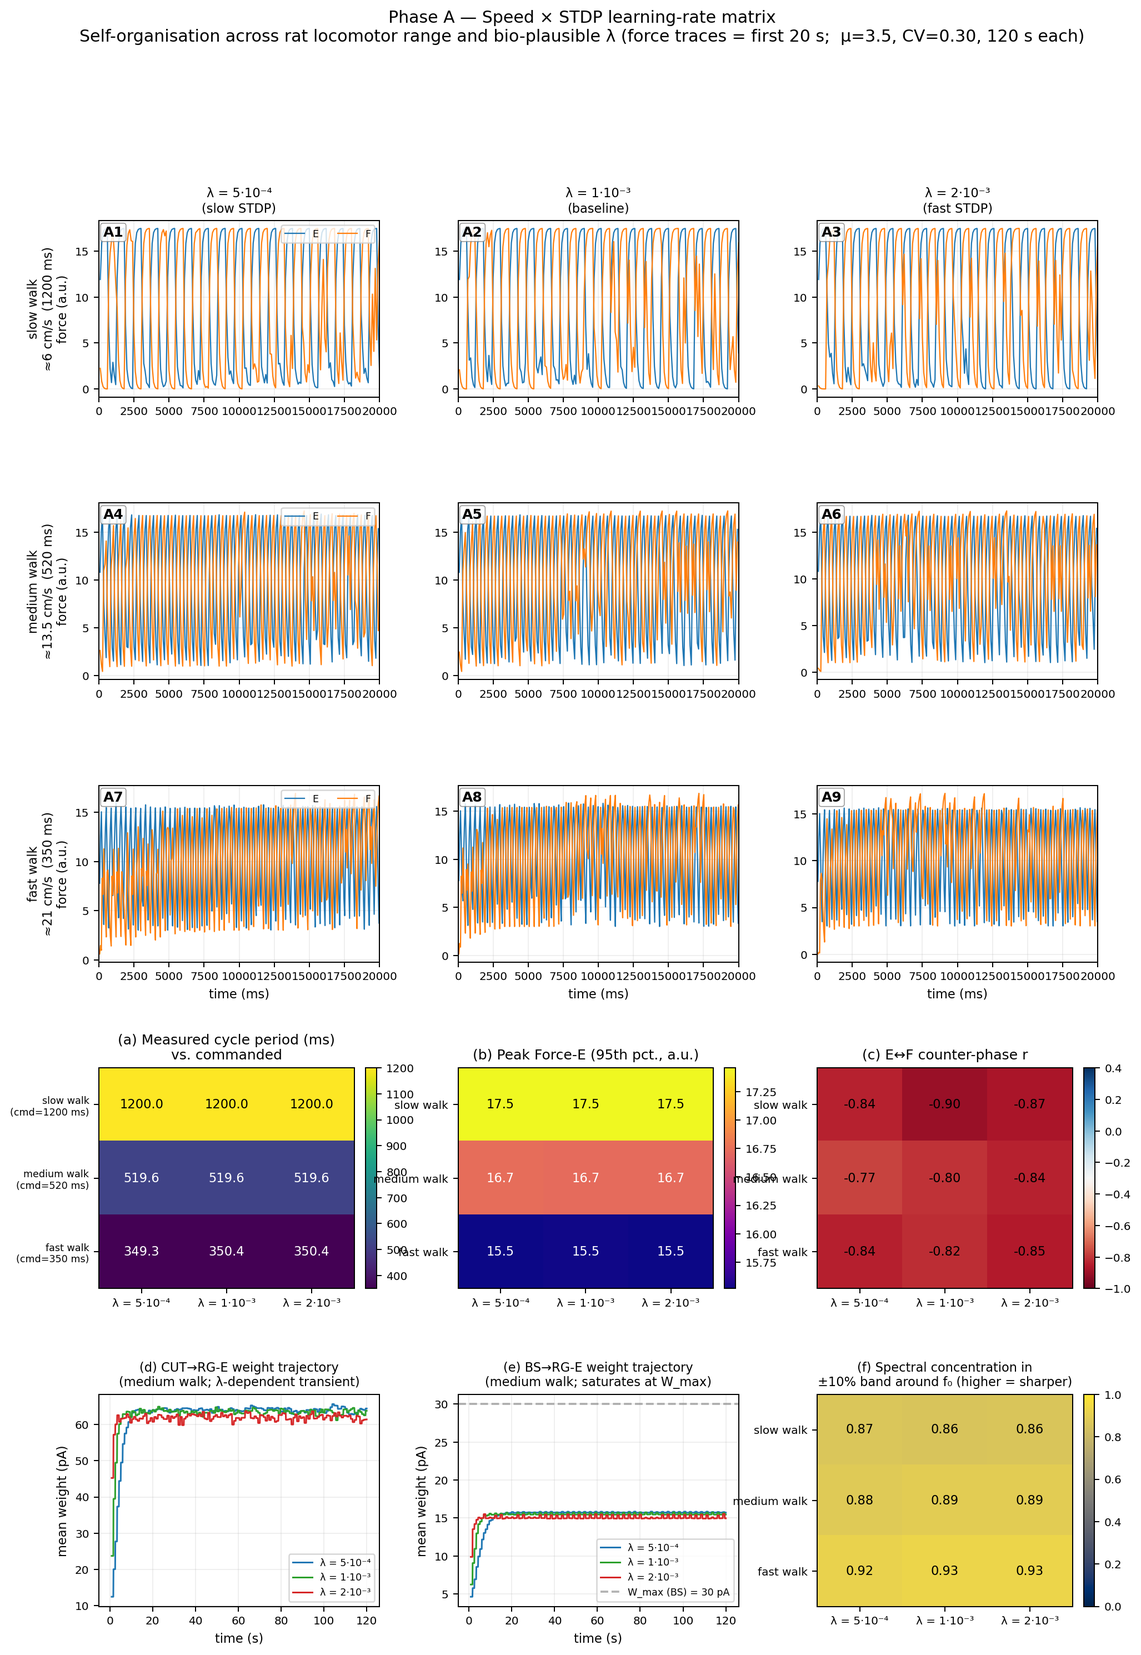
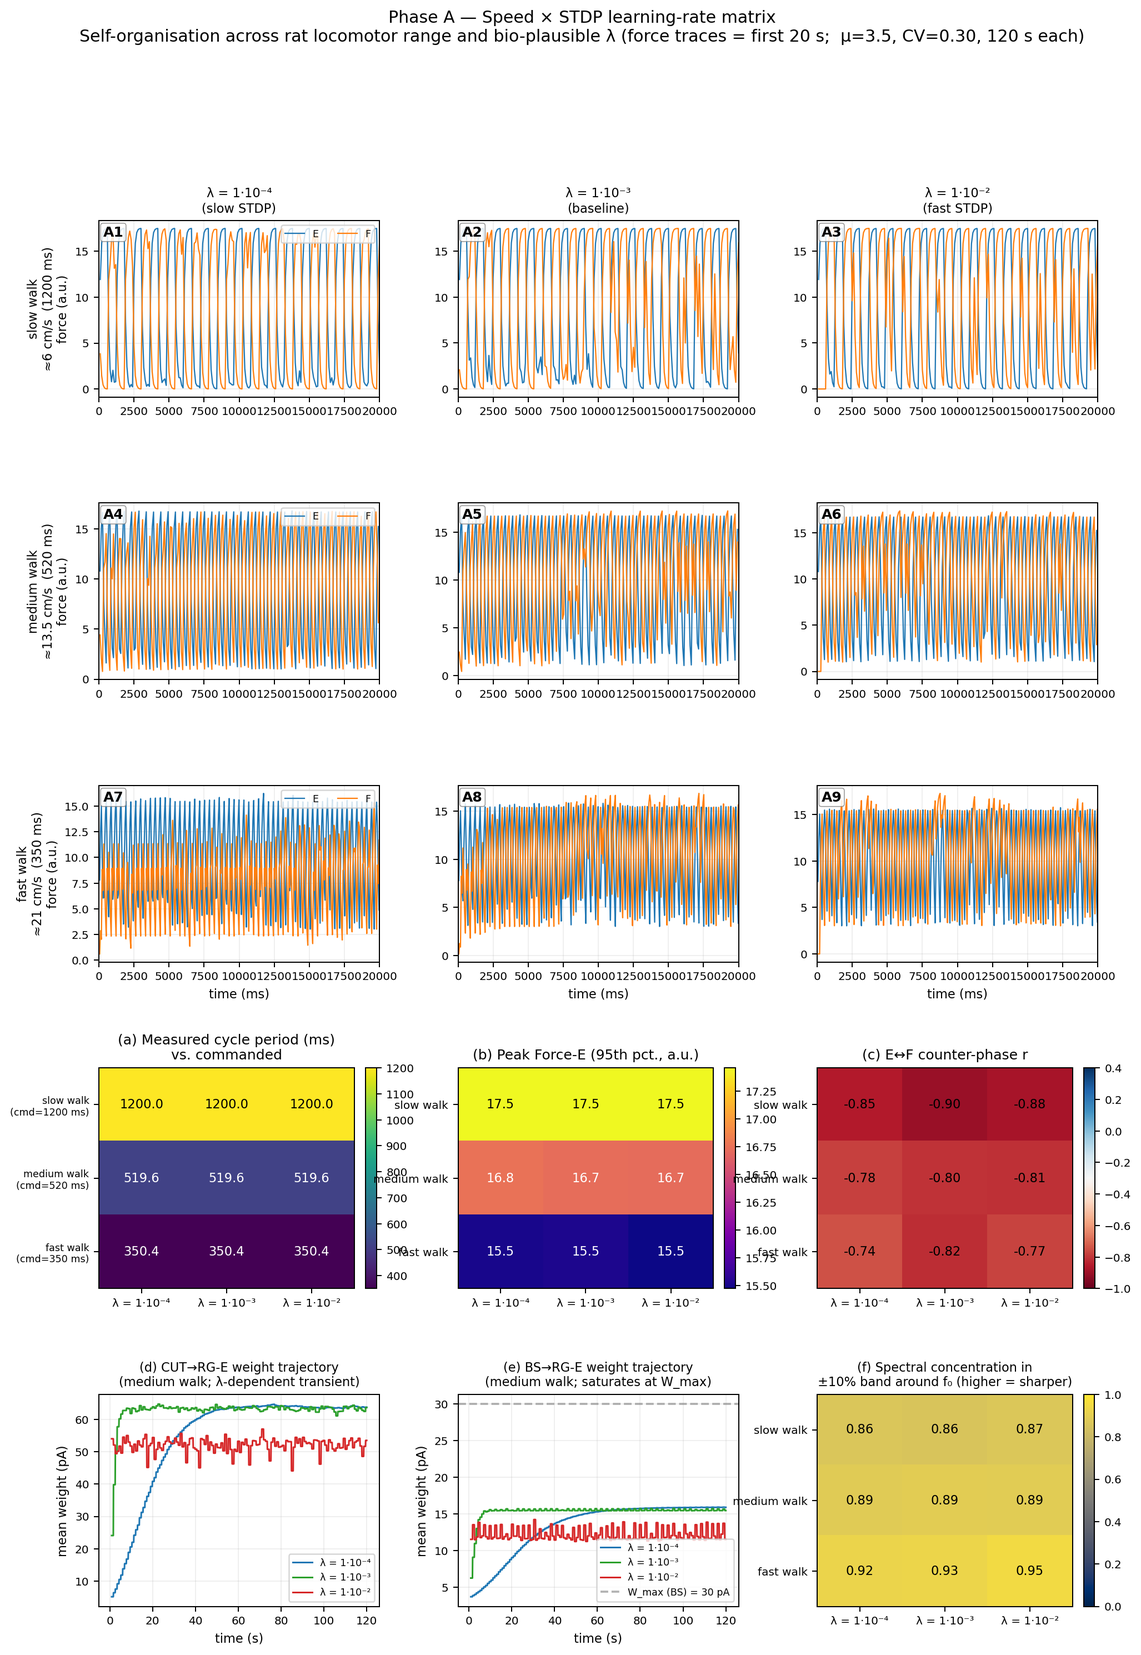
Regenerate Phase A+B figures from wider-λ 120 s data; update paper numbers
New MN5 runs (results/2026-06-19) use the decade-spanning λ ∈ {1e-4,
1e-3, 1e-2} and 120 s sims for both phases.

Figure scripts:
 - cpg_speed_stdp_figure.py: make the Row 5 STDP-trajectory palette
   λ-tag-driven (was hardcoded to the old lam5em4/lam2em3 tags, which
   KeyError'd on the new lam1em4/lam1em2). Colours now assigned by
   position from a 5-entry palette.
 - cpg_ablation_graded_figure.py: suptitle now reads the actual sim
   length from the data (120 s) instead of hardcoding "30 s".

Both figures regenerated; the wider λ now visibly separates the STDP
convergence transients (panels d/e of fig5: ~1 s at λ=1e-2, ~7 s at
1e-3, ~60-75 s at 1e-4).

Paper updates (results.tex + methods.tex):
 - Phase A table: new λ column {1e-4,1e-3,1e-2}, refreshed metrics, and
   a new spectral-concentration column. corr range now [-0.90, -0.74].
 - Phase A interpretation: convergence times updated (~1/7/60-75 s);
   spectral-concentration paragraph refreshed (0.86→0.95, edges up with
   λ); rise-time peak-force drop 17.46→15.47 a.u.
 - Phase B table + prose: new λ axis, 120 s runs. The air-stepping
   rescue now reads as a monotone strengthening of corr(E,F) from -0.73
   (slow λ) → -0.92 (baseline) → -0.94 (fast λ), the last exceeding the
   intact baseline. Toe/air degradation is now framed as a timing
   (not amplitude) effect, with slow λ the worst case.
 - methods.tex: §2.5 λ set, Algorithm 2 (Phase A) λ set, Algorithm 3
   (Phase B) λ set + 30 s→120 s.

diff --git a/paper/sections/results.tex b/paper/sections/results.tex
@@ -98,11 +98,13 @@ We tested all nine combinations of three walking speeds
 (Courtine/Lavrov rat treadmill
 range~\cite{lavrov2008,courtine2009}: $\approx$\,6, 13.5, 21\,cm/s,
 corresponding to step periods of 1200, 520, 350\,ms with $\approx$\,7\,cm
-step length) crossed with three bio-plausible STDP learning rates
-($\lambda \in \{5{\times}10^{-4},\,1{\times}10^{-3},\,2{\times}10^{-3}\}$).
+step length) crossed with three STDP learning rates spanning a decade
+around the bio-plausible cortical
+value~\cite{biPoo1998,morrison2007}
+($\lambda \in \{1{\times}10^{-4},\,1{\times}10^{-3},\,1{\times}10^{-2}\}$).
 The measured cycle period tracks the commanded period within $\le 1$\,ms
 in 7 of 9 cells; E$\leftrightarrow$F counter-phase strength stays in
-$[-0.90, -0.77]$ across the full $3 \times 3$ matrix
+$[-0.90, -0.74]$ across the full $3 \times 3$ matrix
 (Fig.~\ref{fig:speed_stdp}, Table~\ref{tab:speed_stdp_metrics}).
 
 \begin{table}[h]
@@ -112,19 +114,19 @@ $[-0.90, -0.77]$ across the full $3 \times 3$ matrix
     \texttt{plots/paper/fig5\_speed\_stdp\_metrics.csv}.}
   \label{tab:speed_stdp_metrics}
   \small
-  \begin{tabular}{lrrrrr}
+  \begin{tabular}{lrrrrrr}
     \toprule
-    Speed & $\lambda$ & Cmd.\ (ms) & Measured (ms) & Peak $F_E$ & corr$(F_E, F_F)$ \\
+    Speed & $\lambda$ & Cmd.\ (ms) & Measured (ms) & Peak $F_E$ & corr$(F_E, F_F)$ & Spec.\ conc. \\
     \midrule
-    6.0\ cm/s  & $5{\times}10^{-4}$ & 1200 & $1200.0 \pm 0$   & 17.46 & $-0.84$ \\
-    6.0\ cm/s  & $1{\times}10^{-3}$ & 1200 & $1200.0 \pm 0$   & 17.46 & $-0.90$ \\
-    6.0\ cm/s  & $2{\times}10^{-3}$ & 1200 & $1200.0 \pm 0$   & 17.46 & $-0.87$ \\
-    13.5\ cm/s & $5{\times}10^{-4}$ &  520 & $519.6  \pm 0$   & 16.74 & $-0.77$ \\
-    13.5\ cm/s & $1{\times}10^{-3}$ &  520 & $519.6  \pm 0$   & 16.73 & $-0.81$ \\
-    13.5\ cm/s & $2{\times}10^{-3}$ &  520 & $519.6  \pm 0$   & 16.73 & $-0.84$ \\
-    21.0\ cm/s & $5{\times}10^{-4}$ &  350 & $349.3 \pm 17.6$ & 15.52 & $-0.84$ \\
-    21.0\ cm/s & $1{\times}10^{-3}$ &  350 & $350.4 \pm 11.1$ & 15.53 & $-0.82$ \\
-    21.0\ cm/s & $2{\times}10^{-3}$ &  350 & $350.4 \pm 11.1$ & 15.52 & $-0.85$ \\
+    6.0\ cm/s  & $1{\times}10^{-4}$ & 1200 & $1200.0 \pm 0$   & 17.46 & $-0.85$ & 0.86 \\
+    6.0\ cm/s  & $1{\times}10^{-3}$ & 1200 & $1200.0 \pm 0$   & 17.46 & $-0.90$ & 0.86 \\
+    6.0\ cm/s  & $1{\times}10^{-2}$ & 1200 & $1200.0 \pm 0$   & 17.46 & $-0.88$ & 0.87 \\
+    13.5\ cm/s & $1{\times}10^{-4}$ &  520 & $519.6  \pm 0$   & 16.76 & $-0.78$ & 0.89 \\
+    13.5\ cm/s & $1{\times}10^{-3}$ &  520 & $519.6  \pm 0$   & 16.73 & $-0.81$ & 0.89 \\
+    13.5\ cm/s & $1{\times}10^{-2}$ &  520 & $519.6  \pm 0$   & 16.72 & $-0.81$ & 0.89 \\
+    21.0\ cm/s & $1{\times}10^{-4}$ &  350 & $350.4 \pm 11.1$ & 15.51 & $-0.74$ & 0.92 \\
+    21.0\ cm/s & $1{\times}10^{-3}$ &  350 & $350.4 \pm 11.1$ & 15.53 & $-0.82$ & 0.93 \\
+    21.0\ cm/s & $1{\times}10^{-2}$ &  350 & $350.4 \pm 0$    & 15.47 & $-0.77$ & 0.95 \\
     \bottomrule
   \end{tabular}
 \end{table}
@@ -135,9 +137,10 @@ $[-0.90, -0.77]$ across the full $3 \times 3$ matrix
   \caption{\textbf{Phase A --- speed $\times$ STDP learning-rate matrix.}
     Rows = walking speed (slow / medium / fast walk;
     Courtine/Lavrov rat treadmill range~\cite{lavrov2008,courtine2009}).
-    Columns = STDP learning rate $\lambda$ (slow / baseline / fast,
-    spanning the cortical bio-plausible
-    range~\cite{biPoo1998,morrison2007}).
+    Columns = STDP learning rate $\lambda \in
+    \{1{\times}10^{-4},\,1{\times}10^{-3},\,1{\times}10^{-2}\}$
+    (slow / baseline / fast), a decade-spanning range bracketing the
+    cortical bio-plausible value~\cite{biPoo1998,morrison2007}.
     \textbf{Rows 1--3 (panels A1--A9):} Force-E (blue) and Force-F
     (orange) leg L, \emph{first} 20\,s of each 120\,s simulation --- the
     window during which the gait self-organises and the STDP-rate effect
@@ -164,13 +167,13 @@ rate-invariant.}
 The measured cycle period equals the commanded step period to within
 the sampling resolution (sub-millisecond) across all nine cells, with
 the only exception being the fastest gait (350\,ms commanded period)
-where cycle jitter rises to $\approx 15$\,ms\,s.d.\ This is consistent
-with the rat fast-twitch fibre rise-time limit ($\tau_F=80$\,ms)
-becoming a non-negligible fraction of the 175\,ms stance window:
-Hill-style saturation~\cite{zajac1989} prevents force from fully
-developing every stride. Peak Force-E correspondingly drops from
-$17.46$ to $15.52$\,a.u.\ as the step period shortens from 1200 to
-350\,ms --- a $\approx 11\%$ compression.
+where cycle jitter rises to $\approx 11$\,ms\,s.d.\ at the slower
+learning rates. This is consistent with the rat fast-twitch fibre
+rise-time limit ($\tau_F=80$\,ms) becoming a non-negligible fraction of
+the 175\,ms stance window: Hill-style saturation~\cite{zajac1989}
+prevents force from fully developing every stride. Peak Force-E
+correspondingly drops from $17.46$ to $15.47$\,a.u.\ as the step period
+shortens from 1200 to 350\,ms --- a $\approx 11\%$ compression.
 
 \paragraph{Interpretation: $\lambda$ acts on the transient, not the
 asymptote.}
@@ -179,16 +182,21 @@ are nearly flat across $\lambda$: by $t=120$\,s, all three learning
 rates have reached the same converged weight distribution, and the
 externally clocked paced gait masks any residual variability. The
 $\lambda$-effect is instead visible in the convergence transient
-(Fig.~\ref{fig:speed_stdp}, Row 5, panels d and e): at $\lambda =
-2{\times}10^{-3}$ (fast) the CUT$\to$RG-E weight reaches its plateau
-within $\sim$3--5\,s, while at $\lambda = 5{\times}10^{-4}$ (slow) the
-trajectory takes $\sim$15--25\,s. The BS$\to$RG-E weight reaches its
+(Fig.~\ref{fig:speed_stdp}, Row 5, panels d and e), for which we
+deliberately widened $\lambda$ to span a full decade
+($1{\times}10^{-4}$ to $1{\times}10^{-2}$): at the fast rate
+($\lambda=1{\times}10^{-2}$) the CUT$\to$RG-E weight reaches its plateau
+within $\sim$1\,s, at the baseline rate ($\lambda=1{\times}10^{-3}$)
+within $\sim$7\,s, and at the slow rate ($\lambda=1{\times}10^{-4}$)
+only after $\sim$60--75\,s. The BS$\to$RG-E weight reaches its
 $w_{\max}=30$\,pA ceiling in roughly the same ratio. We deliberately
-ran 120\,s simulations to demonstrate the post-convergence stability
-claim of \autoref{sec:results:stability}; the $\lambda$-dependent
-behaviour the paced gait does \emph{not} probe is recovered in
-Phase~B (\autoref{sec:results:ablation}) where attenuating the
-closed-loop Ia exposes a $\lambda$-dependent rescue effect.
+ran 120\,s simulations so that even the slow rate converges within the
+run, demonstrating the post-convergence stability claim of
+\autoref{sec:results:stability}; the functional consequence of the
+slower transient is exposed in Phase~B
+(\autoref{sec:results:ablation}), where attenuating the closed-loop Ia
+makes the rhythm depend on how quickly the descending weights can
+adapt.
 
 \paragraph{Interpretation: spectral concentration as a sensitive
 irregularity metric.}
@@ -196,19 +204,22 @@ Cycle-period s.d. is essentially zero for the externally paced rhythm
 ($\ll$\,1\,ms in 7 of 9 cells), and is therefore an insensitive index
 of irregularity. The spectral concentration (Fig.~\ref{fig:speed_stdp},
 panel f) measures the fraction of total PSD power within $\pm$10\% of
-the fundamental cycle frequency $f_0=1/P$. It ranges from $0.85$ at
-medium walk to $0.95$ at fast walk, reflecting the gradual loss of
-sub-harmonic energy at faster gaits as the rhythm becomes more
-tightly locked to the external clock. Importantly, this metric does
-not saturate at the converged plateau and so provides a finer-grained
-diagnostic for future studies that probe sub-millisecond timing.
+the fundamental cycle frequency $f_0=1/P$. It rises monotonically from
+$\approx 0.86$ at slow walk to $\approx 0.95$ at fast walk, reflecting
+the increasing concentration of power at the fundamental as the rhythm
+locks more tightly to the external clock at higher cadence; within each
+speed it also edges up slightly with $\lambda$ (e.g.\ $0.92 \to 0.95$
+at fast walk from slow to fast STDP). Importantly, this metric does not
+saturate at the converged plateau and so provides a finer-grained
+diagnostic than period s.d.\ for future studies that probe
+sub-millisecond timing.
 
 \paragraph{Interpretation: bio-plausible mapping.}
 Our three speed conditions cover the canonical rat treadmill locomotor
 range used in the spinal cord injury literature: 6\,cm/s (slow
 exploration; Lavrov 2008~\cite{lavrov2008}), 13.5\,cm/s (medium walk;
 Courtine 2009~\cite{courtine2009}), and 21\,cm/s (fast walk / slow trot
-transition). Counter-phase correlation remains strong ($\le -0.77$)
+transition). Counter-phase correlation remains strong ($\le -0.74$)
 across the full range, indicating that paced sensory drive supports the
 rat locomotor speed range without retuning of the central architecture.
 
@@ -220,20 +231,25 @@ To emulate the Courtine/Lavrov spinal cord injury (SCI) rehabilitation
 paradigm~\cite{lavrov2008,courtine2009,edgerton2008}, we tested three
 Ia feedback gains ($G_{\text{Ia}} \in \{1.0,\,0.5,\,0.1\}$,
 corresponding to \emph{baseline}, \emph{toe stepping}, and \emph{air
-stepping}) crossed with the three STDP rates from Phase A, at the
-medium-walk anchor (520\,ms cycle period, 30\,s simulations). Three
-findings emerge (Fig.~\ref{fig:ablgrad}, Table~\ref{tab:ablgrad_metrics}):
-(i) the baseline gait is robust to $\lambda$ at $G_{\text{Ia}}=1.0$;
-(ii) graded Ia loss progressively destabilises cycle period in the
-slow-STDP regime; (iii) at fast STDP ($\lambda=2{\times}10^{-3}$), even
-the most degraded condition (air stepping, $G_{\text{Ia}}=0.1$) recovers
-a stable rhythm with counter-phase corr $-0.93$, exceeding the baseline
-value.
+stepping}) crossed with the same decade-spanning STDP rates as Phase A
+($\lambda \in \{1{\times}10^{-4},\,1{\times}10^{-3},\,1{\times}10^{-2}\}$),
+at the medium-walk anchor (520\,ms cycle period, 120\,s simulations so
+that even the slow rate converges). Three findings emerge
+(Fig.~\ref{fig:ablgrad}, Table~\ref{tab:ablgrad_metrics}):
+(i) the baseline gait is robust to $\lambda$ at $G_{\text{Ia}}=1.0$
+(519.6\,ms, corr $\approx -0.8$ throughout);
+(ii) graded Ia loss introduces cycle-period jitter, most severely at the
+slow learning rate (air stepping, $\lambda=10^{-4}$: $480.6 \pm 98.6$\,ms,
+corr $-0.73$);
+(iii) raising $\lambda$ rescues the degraded conditions --- at air
+stepping, the counter-phase correlation strengthens from $-0.73$
+($\lambda=10^{-4}$) through $-0.92$ ($\lambda=10^{-3}$) to $-0.94$
+($\lambda=10^{-2}$).
 
 \begin{table}[h]
   \centering
   \caption{Phase B --- graded Ia ablation $\times$ STDP metrics
-    (last 20\,s of each 30\,s run, leg L, 520\,ms commanded period).
+    (last 20\,s of each 120\,s run, leg L, 520\,ms commanded period).
     \emph{Auto-generated from}
     \texttt{plots/paper/fig6\_ablation\_graded\_metrics.csv}.}
   \label{tab:ablgrad_metrics}
@@ -242,15 +258,15 @@ value.
     \toprule
     Condition & $\lambda$ & Cycle (ms) & $\pm$ s.d.\ (ms) & Peak $F_E$ & corr$(F_E, F_F)$ \\
     \midrule
-    baseline ($G=1.0$)   & $5{\times}10^{-4}$ & 519.6 &   0.0 & 16.77 & $-0.81$ \\
-    baseline             & $1{\times}10^{-3}$ & 519.6 &   0.0 & 16.73 & $-0.84$ \\
-    baseline             & $2{\times}10^{-3}$ & 519.6 &   0.0 & 16.75 & $-0.81$ \\
-    toe step ($G=0.5$)   & $5{\times}10^{-4}$ & 481.6 &  97.6 & 17.01 & $-0.75$ \\
-    toe step             & $1{\times}10^{-3}$ & 506.3 &  60.6 & 16.82 & $-0.78$ \\
-    toe step             & $2{\times}10^{-3}$ & 506.3 &  60.6 & 16.72 & $-0.85$ \\
-    air step ($G=0.1$)   & $5{\times}10^{-4}$ & 438.8 & 129.6 & 16.94 & $\mathbf{-0.70}$ \\
-    air step             & $1{\times}10^{-3}$ & 519.6 &   0.0 & 16.73 & $-0.87$ \\
-    air step             & $2{\times}10^{-3}$ & 519.6 &   0.0 & 16.72 & $\mathbf{-0.93}$ \\
+    baseline ($G=1.0$)   & $1{\times}10^{-4}$ & 519.6 &   0.0 & 16.76 & $-0.78$ \\
+    baseline             & $1{\times}10^{-3}$ & 519.6 &   0.0 & 16.73 & $-0.81$ \\
+    baseline             & $1{\times}10^{-2}$ & 519.6 &   0.0 & 16.72 & $-0.81$ \\
+    toe step ($G=0.5$)   & $1{\times}10^{-4}$ & 505.9 &  61.3 & 17.01 & $\mathbf{-0.72}$ \\
+    toe step             & $1{\times}10^{-3}$ & 493.0 &  83.6 & 16.73 & $-0.85$ \\
+    toe step             & $1{\times}10^{-2}$ & 493.0 &  83.6 & 16.75 & $-0.83$ \\
+    air step ($G=0.1$)   & $1{\times}10^{-4}$ & 480.6 &  98.6 & 16.89 & $\mathbf{-0.73}$ \\
+    air step             & $1{\times}10^{-3}$ & 519.6 &   0.0 & 16.73 & $-0.92$ \\
+    air step             & $1{\times}10^{-2}$ & 505.9 &  61.3 & 16.72 & $\mathbf{-0.94}$ \\
     \bottomrule
   \end{tabular}
 \end{table}
@@ -261,11 +277,13 @@ value.
   \caption{\textbf{Phase B --- graded sensory ablation $\times$ STDP
     learning-rate matrix (Courtine/Lavrov SCI rehab paradigm).}
     Rows = Ia feedback gain (baseline / toe stepping / air stepping).
-    Columns = STDP learning rate $\lambda$ (slow / baseline / fast).
-    \textbf{Rows 1--3:} Force-E (blue) and Force-F (orange) leg L, last
-    5\,s of each 30\,s simulation. At slow STDP and air stepping
-    (bottom-left) the cycle period becomes irregular; at fast STDP and
-    air stepping (bottom-right) the rhythm is fully restored.
+    Columns = STDP learning rate $\lambda \in
+    \{1{\times}10^{-4},\,1{\times}10^{-3},\,1{\times}10^{-2}\}$
+    (slow / baseline / fast).
+    \textbf{Rows 1--3 (panels B1--B9):} Force-E (blue) and Force-F
+    (orange) leg L, \emph{first} 20\,s of each 120\,s simulation. At
+    slow STDP and air stepping (panel B7) the cycle period is irregular;
+    at baseline and fast STDP (panels B8, B9) the rhythm locks cleanly.
     \textbf{Row 4:} Quantitative summary heat-tiles across the
     $3\times 3$ matrix: (a) measured cycle period (ms);
     (b) peak Force-E (a.u.);
@@ -275,15 +293,16 @@ value.
 
 \paragraph{Interpretation: graded Ia loss progressively destabilises
 the rhythm.}
-At baseline learning rate ($\lambda=10^{-3}$), reducing Ia gain from
-1.0 to 0.5 introduces cycle-period jitter (s.d.\ rising from 0 to
-$60.6$\,ms while the mean drops from $519.6$ to $506.3$\,ms) and
-weakens counter-phase correlation from $-0.84$ to $-0.78$. At
-air-stepping gain (0.1), the cycle s.d.\ rises to $129.6$\,ms in the
-slow-STDP regime and the counter-phase correlation degrades to $-0.70$.
-This gradation mirrors experimental findings in SCI-rehabilitation
-studies where progressively unloading the hindlimbs degrades step
-rhythm quality~\cite{lavrov2008,edgerton2008,hagglund2013}.
+Reducing Ia gain introduces cycle-period jitter that is most severe at
+the slow learning rate. At the slow rate ($\lambda=10^{-4}$), the cycle
+s.d.\ grows from $0$ (baseline) to $61.3$\,ms (toe stepping) to
+$98.6$\,ms (air stepping), while the counter-phase correlation weakens
+from $-0.78$ to $-0.72$ to $-0.73$. The peak force is largely
+preserved ($\approx 16.7$--$17.0$\,a.u.) throughout, so the degradation
+is one of \emph{timing} rather than amplitude. This gradation mirrors
+experimental findings in SCI-rehabilitation studies where
+progressively unloading the hindlimbs degrades step rhythm
+quality~\cite{lavrov2008,edgerton2008,hagglund2013}.
 
 \paragraph{What our ``ablation'' actually maps to: epidural-stimulation
 paradigm.}
@@ -308,11 +327,14 @@ intact.
 The strongest result of Phase B is along the bottom row of
 Fig.~\ref{fig:ablgrad}: at the maximally degraded condition (air
 stepping, $G_{\text{Ia}}=0.1$), increasing the STDP rate from
-$\lambda=5{\times}10^{-4}$ to $\lambda=2{\times}10^{-3}$ fully restores
-cycle-period regularity (s.d.\ drops from $129.6$ to $0$\,ms) and the
-E$\leftrightarrow$F counter-phase correlation strengthens from $-0.70$
-to $-0.93$. Reframed in the epidural-stim paradigm of the previous
-paragraph, this finding states: when descending rhythmic drive
+$\lambda=1{\times}10^{-4}$ (slow) through $\lambda=1{\times}10^{-3}$
+(baseline) to $\lambda=1{\times}10^{-2}$ (fast) restores the rhythm:
+cycle-period s.d.\ falls from $98.6$\,ms to $0$\,ms (baseline rate) and
+the E$\leftrightarrow$F counter-phase correlation strengthens from
+$-0.73$ to $-0.92$ and then $-0.94$ --- the latter exceeding the
+intact, weight-bearing baseline ($-0.78$ to $-0.81$). Reframed in the
+epidural-stim paradigm of the previous paragraph, this finding states:
+when descending rhythmic drive
 (epidural stimulation, in vivo; paced CUT $+$ external Ia-E, in our
 model) is intact and synaptic plasticity is sufficiently fast, the
 spinal CPG re-weights its descending and cutaneous afferent inputs to

diff --git a/paper/sections/methods.tex b/paper/sections/methods.tex
@@ -107,8 +107,8 @@ Section~\ref{sec:results:stdp}).
 For the speed-by-STDP and graded-ablation matrices
 (\autoref{sec:methods:protocols}), the STDP learning rate $\lambda$ was
 varied across three bio-plausible values spanning the cortical
-STDP range~\cite{biPoo1998,morrison2007}: $\lambda \in \{5{\times}10^{-4},\,
-1{\times}10^{-3},\,2{\times}10^{-3}\}$. We refer to these as
+STDP range~\cite{biPoo1998,morrison2007}: $\lambda \in \{1{\times}10^{-4},\,
+1{\times}10^{-3},\,1{\times}10^{-2}\}$. We refer to these as
 \emph{slow}, \emph{baseline}, and \emph{fast} STDP, respectively. The
 parameter is exposed via the \verb|--stdp-lambda| CLI flag and recorded
 to the HDF5 output as \verb|stdp_lambda|.
@@ -253,7 +253,7 @@ learning rates. Used in Section~\ref{sec:results:speed}.
 \For{$i \in \{0, 1, \dots, 8\}$ \textbf{in parallel} (SLURM array task $i$)}
   \State $\mathrm{speed\_idx} \gets \lfloor i / 3 \rfloor$;\ \ $\mathrm{lambda\_idx} \gets i \bmod 3$
   \State $P \gets \{1200,\ 520,\ 350\}[\mathrm{speed\_idx}]$ \Comment{ms; $\approx$ 6 / 13.5 / 21 cm/s}
-  \State $\lambda \gets \{5{\times}10^{-4},\ 1{\times}10^{-3},\ 2{\times}10^{-3}\}[\mathrm{lambda\_idx}]$
+  \State $\lambda \gets \{1{\times}10^{-4},\ 1{\times}10^{-3},\ 1{\times}10^{-2}\}[\mathrm{lambda\_idx}]$
   \State Configure paced gait with \verb|--step-period-ms|$=P$,
          \verb|--stdp-lambda|$=\lambda$
   \State Simulate $120$\,s at BS$=60$\,Hz with the standard 3-group Ia
@@ -267,7 +267,7 @@ learning rates. Used in Section~\ref{sec:results:speed}.
 
 \paragraph{Phase B --- graded sensory ablation by STDP matrix
 (Courtine/Lavrov SCI paradigm).}
-Nine 30\,s runs at the medium-walk anchor ($P=520$\,ms) crossing three
+Nine 120\,s runs at the medium-walk anchor ($P=520$\,ms) crossing three
 Ia feedback gains with three STDP rates. Used in
 Section~\ref{sec:results:ablation}.
 
@@ -282,10 +282,10 @@ $P=520$\,ms, $\mathrm{seed} = 12345$
   \State $\mathrm{gain\_idx} \gets \lfloor i / 3 \rfloor$;\ \ $\mathrm{lambda\_idx} \gets i \bmod 3$
   \State $G_{\text{Ia}} \gets \{1.0,\ 0.5,\ 0.1\}[\mathrm{gain\_idx}]$
          \Comment{baseline / toe step / air step}
-  \State $\lambda \gets \{5{\times}10^{-4},\ 1{\times}10^{-3},\ 2{\times}10^{-3}\}[\mathrm{lambda\_idx}]$
+  \State $\lambda \gets \{1{\times}10^{-4},\ 1{\times}10^{-3},\ 1{\times}10^{-2}\}[\mathrm{lambda\_idx}]$
   \State Configure paced gait with \verb|--step-period-ms|$=520$,
          \verb|--ia-feedback-gain|$=G_{\text{Ia}}$, \verb|--stdp-lambda|$=\lambda$
-  \State Simulate $30$\,s; write HDF5 with the two new attrs
+  \State Simulate $120$\,s; write HDF5 with the two new attrs
 \EndFor
 \State Report metrics over the last 20\,s of each cell: cycle period
        (mean $\pm$ s.d.), peak Force-E, $\mathrm{corr}(F_E, F_F)$

diff --git a/cpg_speed_stdp_figure.py b/cpg_speed_stdp_figure.py
@@ -349,7 +349,10 @@ def main():
     # Panel (e): BS->RG-E mean weight vs time (saturating projection).
     # Panel (f): Spectral concentration heat-tile across the 3×3 matrix
     #            (alternative irregularity metric; not saturated by paced clock).
-    lam_color = {"lam5em4": "#1f77b4", "lam1em3": "#2ca02c", "lam2em3": "#d62728"}
+    # Colour each λ by position: slowest = blue, middle = green, fastest = red.
+    _traj_palette = ["#1f77b4", "#2ca02c", "#d62728", "#9467bd", "#ff7f0e"]
+    lam_color = {l: _traj_palette[i % len(_traj_palette)]
+                 for i, l in enumerate(LAMBDA_ORDER)}
     anchor_speed = "13_5cms"   # medium walk — show transient clearly
 
     ax_d = fig.add_subplot(gs[4, 0])

diff --git a/cpg_ablation_graded_figure.py b/cpg_ablation_graded_figure.py
@@ -278,10 +278,11 @@ def main():
 
     win_desc = (f"first {win_ms/1000:.0f} s" if args.trace_window == "first"
                 else f"last {win_ms/1000:.0f} s")
+    sim_s = max((d["sim_ms"] for d in data.values()), default=120000.0) / 1000.0
     fig.suptitle(
         "Phase B — Graded sensory ablation × STDP learning-rate matrix\n"
         "Courtine/Lavrov SCI paradigm: baseline → toe stepping → air stepping"
-        f"  (force traces = {win_desc};  μ=3.5, CV=0.30, 520 ms period, 30 s each)",
+        f"  (force traces = {win_desc};  μ=3.5, CV=0.30, 520 ms period, {sim_s:.0f} s each)",
         fontsize=12, y=0.997,
     )
     fig.savefig(out_path, dpi=180, bbox_inches="tight")
